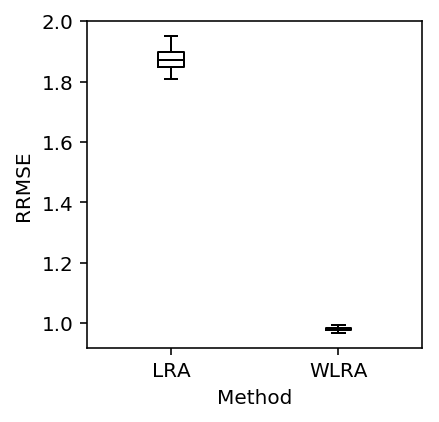
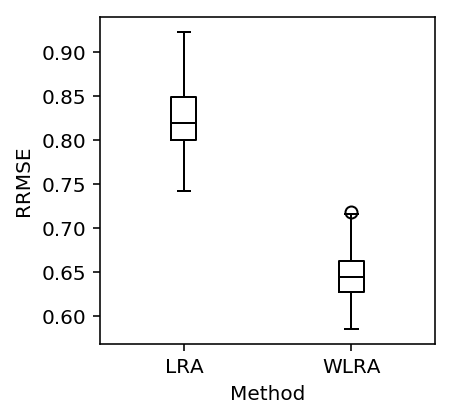
Republish

Changed region(s): [[0.0296, 0.0311, 0.9772, 0.9019], [0.4738, 0.9019, 0.6811, 0.9641]]

diff --git a/docs/wlra.html b/docs/wlra.html
@@ -1,7 +1,7 @@
 <!DOCTYPE html>
 <html lang="en">
 <head>
-<!-- 2018-09-25 Tue 14:22 -->
+<!-- 2018-09-25 Tue 17:07 -->
 <meta charset="utf-8">
 <meta name="viewport" content="width=device-width, initial-scale=1">
 <title>Weighted low rank approximation</title>
@@ -263,13 +263,13 @@ for the JavaScript code in this tag.
 <li><a href="#org19362fe">EM algorithm</a></li>
 <li><a href="#org7074885">Bernoulli low rank approximation</a></li>
 <li><a href="#org90ac4e1">Poisson low rank approximation</a></li>
-<li><a href="#orgafb113e">Imputing missing values</a></li>
+<li><a href="#org8f29519">Imputing missing values</a></li>
 </ul>
 </li>
 <li><a href="#org23e1a28">Results</a>
 <ul>
 <li><a href="#org56d579d">Recovering planted low rank structure</a></li>
-<li><a href="#org8f29519">Imputing missing values</a></li>
+<li><a href="#org708b026">Imputing missing values</a></li>
 <li><a href="#orgd780580">Explaining held out data</a></li>
 </ul>
 </li>
@@ -433,19 +433,25 @@ where the constant does not depend on \(\eta\).
 <p>
 The weights must be constrained to be between zero and one in the EM
 algorithm, so we scale them by the maximum weight in each outer
-iteration. Our method is implemented in the Python package <i>wlra</i>.
+iteration. Our method is implemented in the Python package <a href="https://www.github.com/aksarkar/wlra">wlra</a>.
 </p>
 </div>
 </div>
 
-<div id="outline-container-orgafb113e" class="outline-3">
-<h3 id="orgafb113e">Imputing missing values</h3>
-<div class="outline-text-3" id="text-orgafb113e">
+<div id="outline-container-org8f29519" class="outline-3">
+<h3 id="org8f29519">Imputing missing values</h3>
+<div class="outline-text-3" id="text-org8f29519">
 <p>
-To support missing values, we need to introduce external weights
-\(\tilde{w}_{ij} \in \{0, 1\}\) to denote presence/absence. We can do this
-by incorporating the weights \(\tilde{\mathbf{W}} \circ \mathbf{W}\) in each
-outer iteration.
+Srebro and Jaakkola derive the EM algorithm for WLRA exactly for the case
+where a weight of zero denotes a missing value (as opposed to an observation
+of zero).
+</p>
+
+<p>
+To support missing values in Poisson LRA, we need to introduce external
+weights \(\tilde{w}_{ij} \in \{0, 1\}\) to denote presence/absence. We can
+do this by incorporating the weights \(\tilde{\mathbf{W}} \circ \mathbf{W}\)
+in each outer iteration.
 </p>
 </div>
 </div>
@@ -458,10 +464,6 @@ outer iteration.
 <div id="outline-container-org56d579d" class="outline-3">
 <h3 id="org56d579d">Recovering planted low rank structure</h3>
 <div class="outline-text-3" id="text-org56d579d">
-</div>
-<div id="outline-container-org89d37d1" class="outline-4">
-<h4 id="org89d37d1">Gaussian noise</h4>
-<div class="outline-text-4" id="text-org89d37d1">
 <p>
 We first consider the problem of recovering a planted low rank matrix after
 convolving with Gaussian noise, assuming we know the rank.
@@ -503,18 +505,17 @@ inverse variances as the weights.
   <span class="org-keyword">return</span> rrmse(res, eta)
 
 <span class="org-keyword">def</span> <span class="org-function-name">score_lra</span>(x, eta, rank):
-  <span class="org-variable-name">u</span>, <span class="org-variable-name">d</span>, <span class="org-variable-name">vt</span> = skd.PCA(n_components=rank)._fit(x)
-  <span class="org-variable-name">res</span> = np.einsum(<span class="org-string">'ij,j,jk-&gt;ik'</span>, u, d, vt)
+  <span class="org-variable-name">res</span> = wlra.lra(x, rank)
   <span class="org-keyword">return</span> rrmse(res, eta)
 
-<span class="org-keyword">def</span> <span class="org-function-name">evaluate_gaussian_known_rank</span>(rank, num_trials=10):
+<span class="org-keyword">def</span> <span class="org-function-name">evaluate_gaussian_known_rank</span>(num_trials=10):
   <span class="org-variable-name">result</span> = []
   <span class="org-keyword">for</span> trial <span class="org-keyword">in</span> <span class="org-builtin">range</span>(num_trials):
-    <span class="org-variable-name">x</span>, <span class="org-variable-name">w</span>, <span class="org-variable-name">eta</span>, <span class="org-variable-name">snr</span> = simulate_gaussian(n=200, p=300, rank=rank, s0=10, seed=trial)
+    <span class="org-variable-name">x</span>, <span class="org-variable-name">w</span>, <span class="org-variable-name">eta</span>, <span class="org-variable-name">snr</span> = simulate_gaussian(n=100, p=1000, rank=1, s0=10, seed=trial)
     result.append([trial,
                    snr,
-                   score_lra(x, eta, rank=rank),
-                   score_wlra(x, w, eta, rank=rank)])
+                   score_lra(x, eta, rank=1),
+                   score_wlra(x, w, eta, rank=1)])
   <span class="org-variable-name">result</span> = pd.DataFrame(result)
   <span class="org-variable-name">result.columns</span> = [<span class="org-string">'trial'</span>, <span class="org-string">'snr'</span>, <span class="org-string">'LRA'</span>, <span class="org-string">'WLRA'</span>]
   <span class="org-keyword">return</span> result
@@ -524,8 +525,8 @@ inverse variances as the weights.
 <div class="org-src-container">
 <pre class="src src-ipython">&lt;&lt;imports&gt;&gt;
 &lt;&lt;gaussian-reconstruction&gt;&gt;
-<span class="org-variable-name">results_gaussian_known_rank</span> = evaluate_gaussian_known_rank(rank=3, num_trials=100)
-results_gaussian_known_rank.to_csv(<span class="org-string">'/project2/mstephens/aksarkar/projects/singlecell-ideas/data/wlra/gaussian-known-rank.txt.gz'</span>, compression=<span class="org-string">'gzip'</span>, sep=<span class="org-string">'\t'</span>)
+<span class="org-variable-name">res</span> = evaluate_gaussian_known_rank(num_trials=100)
+res.to_csv(<span class="org-string">'/project2/mstephens/aksarkar/projects/singlecell-ideas/data/wlra/gaussian-known-rank.txt.gz'</span>, compression=<span class="org-string">'gzip'</span>, sep=<span class="org-string">'\t'</span>)
 </pre>
 </div>
 
@@ -537,10 +538,9 @@ python /project2/mstephens/aksarkar/projects/singlecell-ideas/code/gaussian-know
 </pre>
 </div>
 
-<pre class="example">
-Submitted batch job 50097466
-
-</pre>
+<p>
+Submitted batch job 50110869
+</p>
 
 <p>
 Read the results.
@@ -570,12 +570,7 @@ plt.xlabel(<span class="org-string">'Method'</span>)
 <p><img src="figure/wlra.org/gaussian-known-rank.png" alt="gaussian-known-rank.png">
 </p>
 </div>
-</div>
-</div>
 
-<div id="outline-container-orge8a41c6" class="outline-4">
-<h4 id="orge8a41c6">Poisson noise</h4>
-<div class="outline-text-4" id="text-orge8a41c6">
 <p>
 We then consider the problem of recovering a planted low rank matrix, after
 convolving with Poisson noise, assuming we know the rank.
@@ -622,17 +617,16 @@ results_pois_known_rank.to_csv(<span class="org-string">'/project2/mstephens/aks
 </div>
 
 <div class="org-src-container">
-<pre class="src src-sh">sbatch --partition=broadwl --job-name=pois-lra
+<pre class="src src-sh">sbatch --partition=broadwl --job-name=pois-imputation
 <span class="org-comment-delimiter">#</span><span class="org-comment">!/bin/bash</span>
 <span class="org-builtin">source</span> activate singlecell
 python /project2/mstephens/aksarkar/projects/singlecell-ideas/code/pois-known-rank.py
 </pre>
 </div>
 
-<pre class="example">
-Submitted batch job 50100695
-
-</pre>
+<p>
+Submitted batch job 50111778
+</p>
 
 <p>
 Read the results.
@@ -668,10 +662,103 @@ plt.xlabel(<span class="org-string">'Method'</span>)
 </div>
 </div>
 </div>
+
+<div id="outline-container-org708b026" class="outline-3">
+<h3 id="org708b026">Imputing missing values</h3>
+<div class="outline-text-3" id="text-org708b026">
+<p>
+We generate a Poisson data matrix with planted row rank structure as above,
+then truly hold out entries using numpy masked arrays.
+</p>
+
+<div class="org-src-container">
+<pre class="src src-ipython" id="orgc702bc9"><span class="org-keyword">def</span> <span class="org-function-name">rmse</span>(pred, true):
+  <span class="org-keyword">return</span> np.sqrt(np.square(pred - true).mean())
+
+<span class="org-keyword">def</span> <span class="org-function-name">imputation_score_lra</span>(x):
+  <span class="org-keyword">try</span>:
+    <span class="org-variable-name">res</span> = wlra.wlra(x.filled(0), w=(~x.mask).astype(<span class="org-builtin">int</span>), rank=3)
+    <span class="org-keyword">return</span> rmse(res[x.mask], x.data[x.mask])
+  <span class="org-keyword">except</span> <span class="org-type">RuntimeError</span>:
+    <span class="org-keyword">return</span> np.nan
+
+<span class="org-keyword">def</span> <span class="org-function-name">imputation_score_pois_lra</span>(x):
+  <span class="org-keyword">try</span>:
+    <span class="org-variable-name">res</span> = wlra.pois_lra(x, rank=3, max_outer_iters=50)
+    <span class="org-keyword">return</span> rmse(res[x.mask], x.data[x.mask])
+  <span class="org-keyword">except</span> <span class="org-type">RuntimeError</span>:
+    <span class="org-keyword">return</span> np.nan
+
+<span class="org-keyword">def</span> <span class="org-function-name">evaluate_pois_imputation</span>(num_trials=10):
+  <span class="org-variable-name">result</span> = []
+  <span class="org-keyword">for</span> trial <span class="org-keyword">in</span> <span class="org-builtin">range</span>(num_trials):
+    <span class="org-variable-name">x</span>, <span class="org-variable-name">eta</span> = simulate_pois(n=200, p=300, rank=3, seed=trial)
+    <span class="org-variable-name">mask</span> = np.random.uniform(size=(200, 300)) &lt; 0.25
+    <span class="org-variable-name">x</span> = np.ma.masked_array(x, mask=mask)
+    result.append([trial,
+                   imputation_score_lra(x),
+                   imputation_score_pois_lra(x)])
+  <span class="org-variable-name">result</span> = pd.DataFrame(result)
+  <span class="org-variable-name">result.columns</span> = [<span class="org-string">'trial'</span>, <span class="org-string">'LRA'</span>, <span class="org-string">'Poisson LRA'</span>]
+  <span class="org-keyword">return</span> result
+</pre>
 </div>
 
-<div id="outline-container-org8f29519" class="outline-3">
-<h3 id="org8f29519">Imputing missing values</h3>
+<div class="org-src-container">
+<pre class="src src-ipython">&lt;&lt;imports&gt;&gt;
+&lt;&lt;gaussian-reconstruction&gt;&gt;
+&lt;&lt;poisson-reconstruction&gt;&gt;
+&lt;&lt;poisson-imputation&gt;&gt;
+<span class="org-variable-name">res</span> = evaluate_pois_imputation(num_trials=100)
+res.to_csv(<span class="org-string">'/project2/mstephens/aksarkar/projects/singlecell-ideas/data/wlra/pois-imputation.txt.gz'</span>, compression=<span class="org-string">'gzip'</span>, sep=<span class="org-string">'\t'</span>)
+</pre>
+</div>
+
+<div class="org-src-container">
+<pre class="src src-sh">sbatch --partition=broadwl --job-name=pois-imputation
+<span class="org-comment-delimiter">#</span><span class="org-comment">!/bin/bash</span>
+<span class="org-builtin">source</span> activate singlecell
+python /project2/mstephens/aksarkar/projects/singlecell-ideas/code/pois-imputation.py
+</pre>
+</div>
+
+<p>
+Submitted batch job 50113413
+</p>
+
+<p>
+Read the results.
+</p>
+
+<div class="org-src-container">
+<pre class="src src-ipython"><span class="org-variable-name">results_pois_imputation</span> = pd.read_table(<span class="org-string">'/project2/mstephens/aksarkar/projects/singlecell-ideas/data/wlra/pois-imputation.txt.gz'</span>, index_col=0)
+</pre>
+</div>
+
+<p>
+Plot the performance.
+</p>
+
+<div class="org-src-container">
+<pre class="src src-ipython"><span class="org-variable-name">T</span> = results_pois_imputation.dropna()
+
+plt.clf()
+plt.gcf().set_size_inches(3, 3)
+plt.boxplot(x=T[<span class="org-string">'Poisson LRA'</span>] - T[<span class="org-string">'LRA'</span>],
+            flierprops={<span class="org-string">'markersize'</span>: 4, <span class="org-string">'marker'</span>: <span class="org-string">'.'</span>, <span class="org-string">'markerfacecolor'</span>: <span class="org-string">'k'</span>},
+            medianprops={<span class="org-string">'color'</span>: <span class="org-string">'k'</span>})
+plt.xticks([1], [<span class="org-string">'Poisson LRA'</span>])
+plt.xlabel(<span class="org-string">'Method'</span>)
+<span class="org-variable-name">_</span> = plt.ylabel(<span class="org-string">'Difference in RMSE(LRA)'</span>)
+</pre>
+</div>
+
+
+<div class="figure">
+<p><img src="figure/wlra.org/pois-imputation.png" alt="pois-imputation.png">
+</p>
+</div>
+</div>
 </div>
 
 <div id="outline-container-orgd780580" class="outline-3">
@@ -681,7 +768,7 @@ plt.xlabel(<span class="org-string">'Method'</span>)
 </div>
 <div id="postamble" class="status">
 <p class="author">Author: Abhishek Sarkar</p>
-<p class="date">Created: 2018-09-25 Tue 14:22</p>
+<p class="date">Created: 2018-09-25 Tue 17:07</p>
 <p class="validation"><a href="http://validator.w3.org/check?uri=referer">Validate</a></p>
 </div>
 </body>
